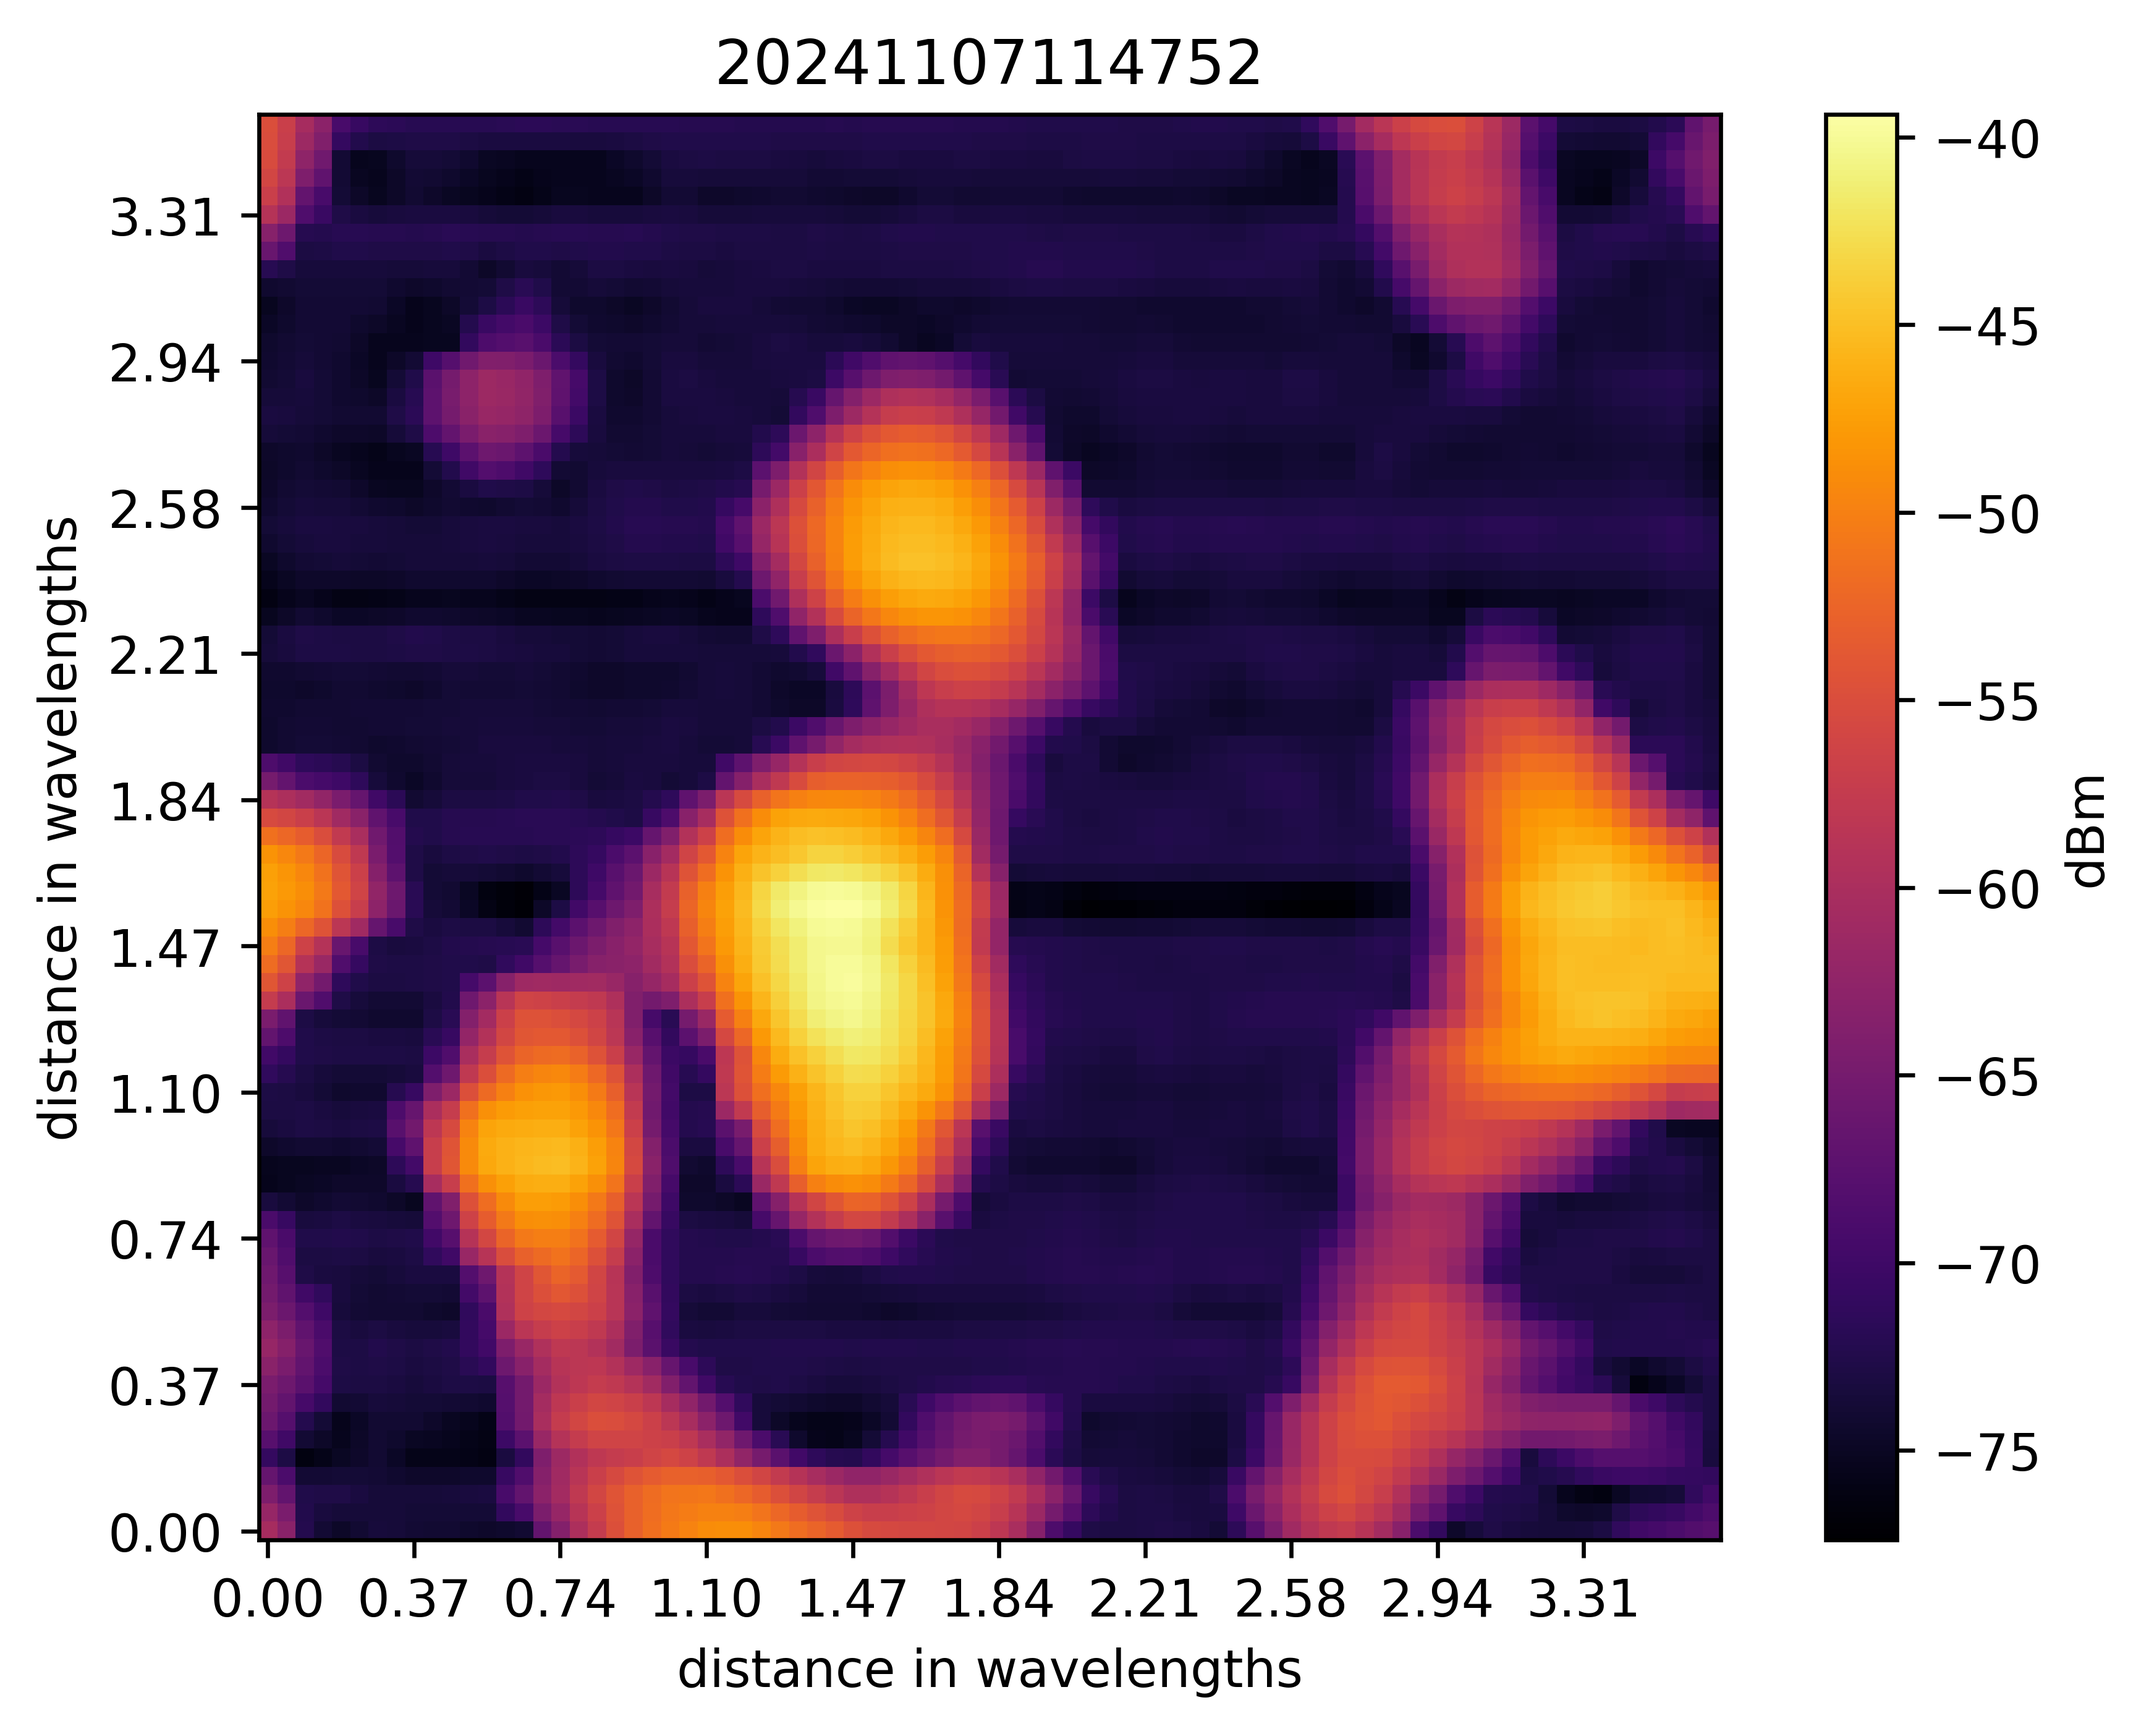
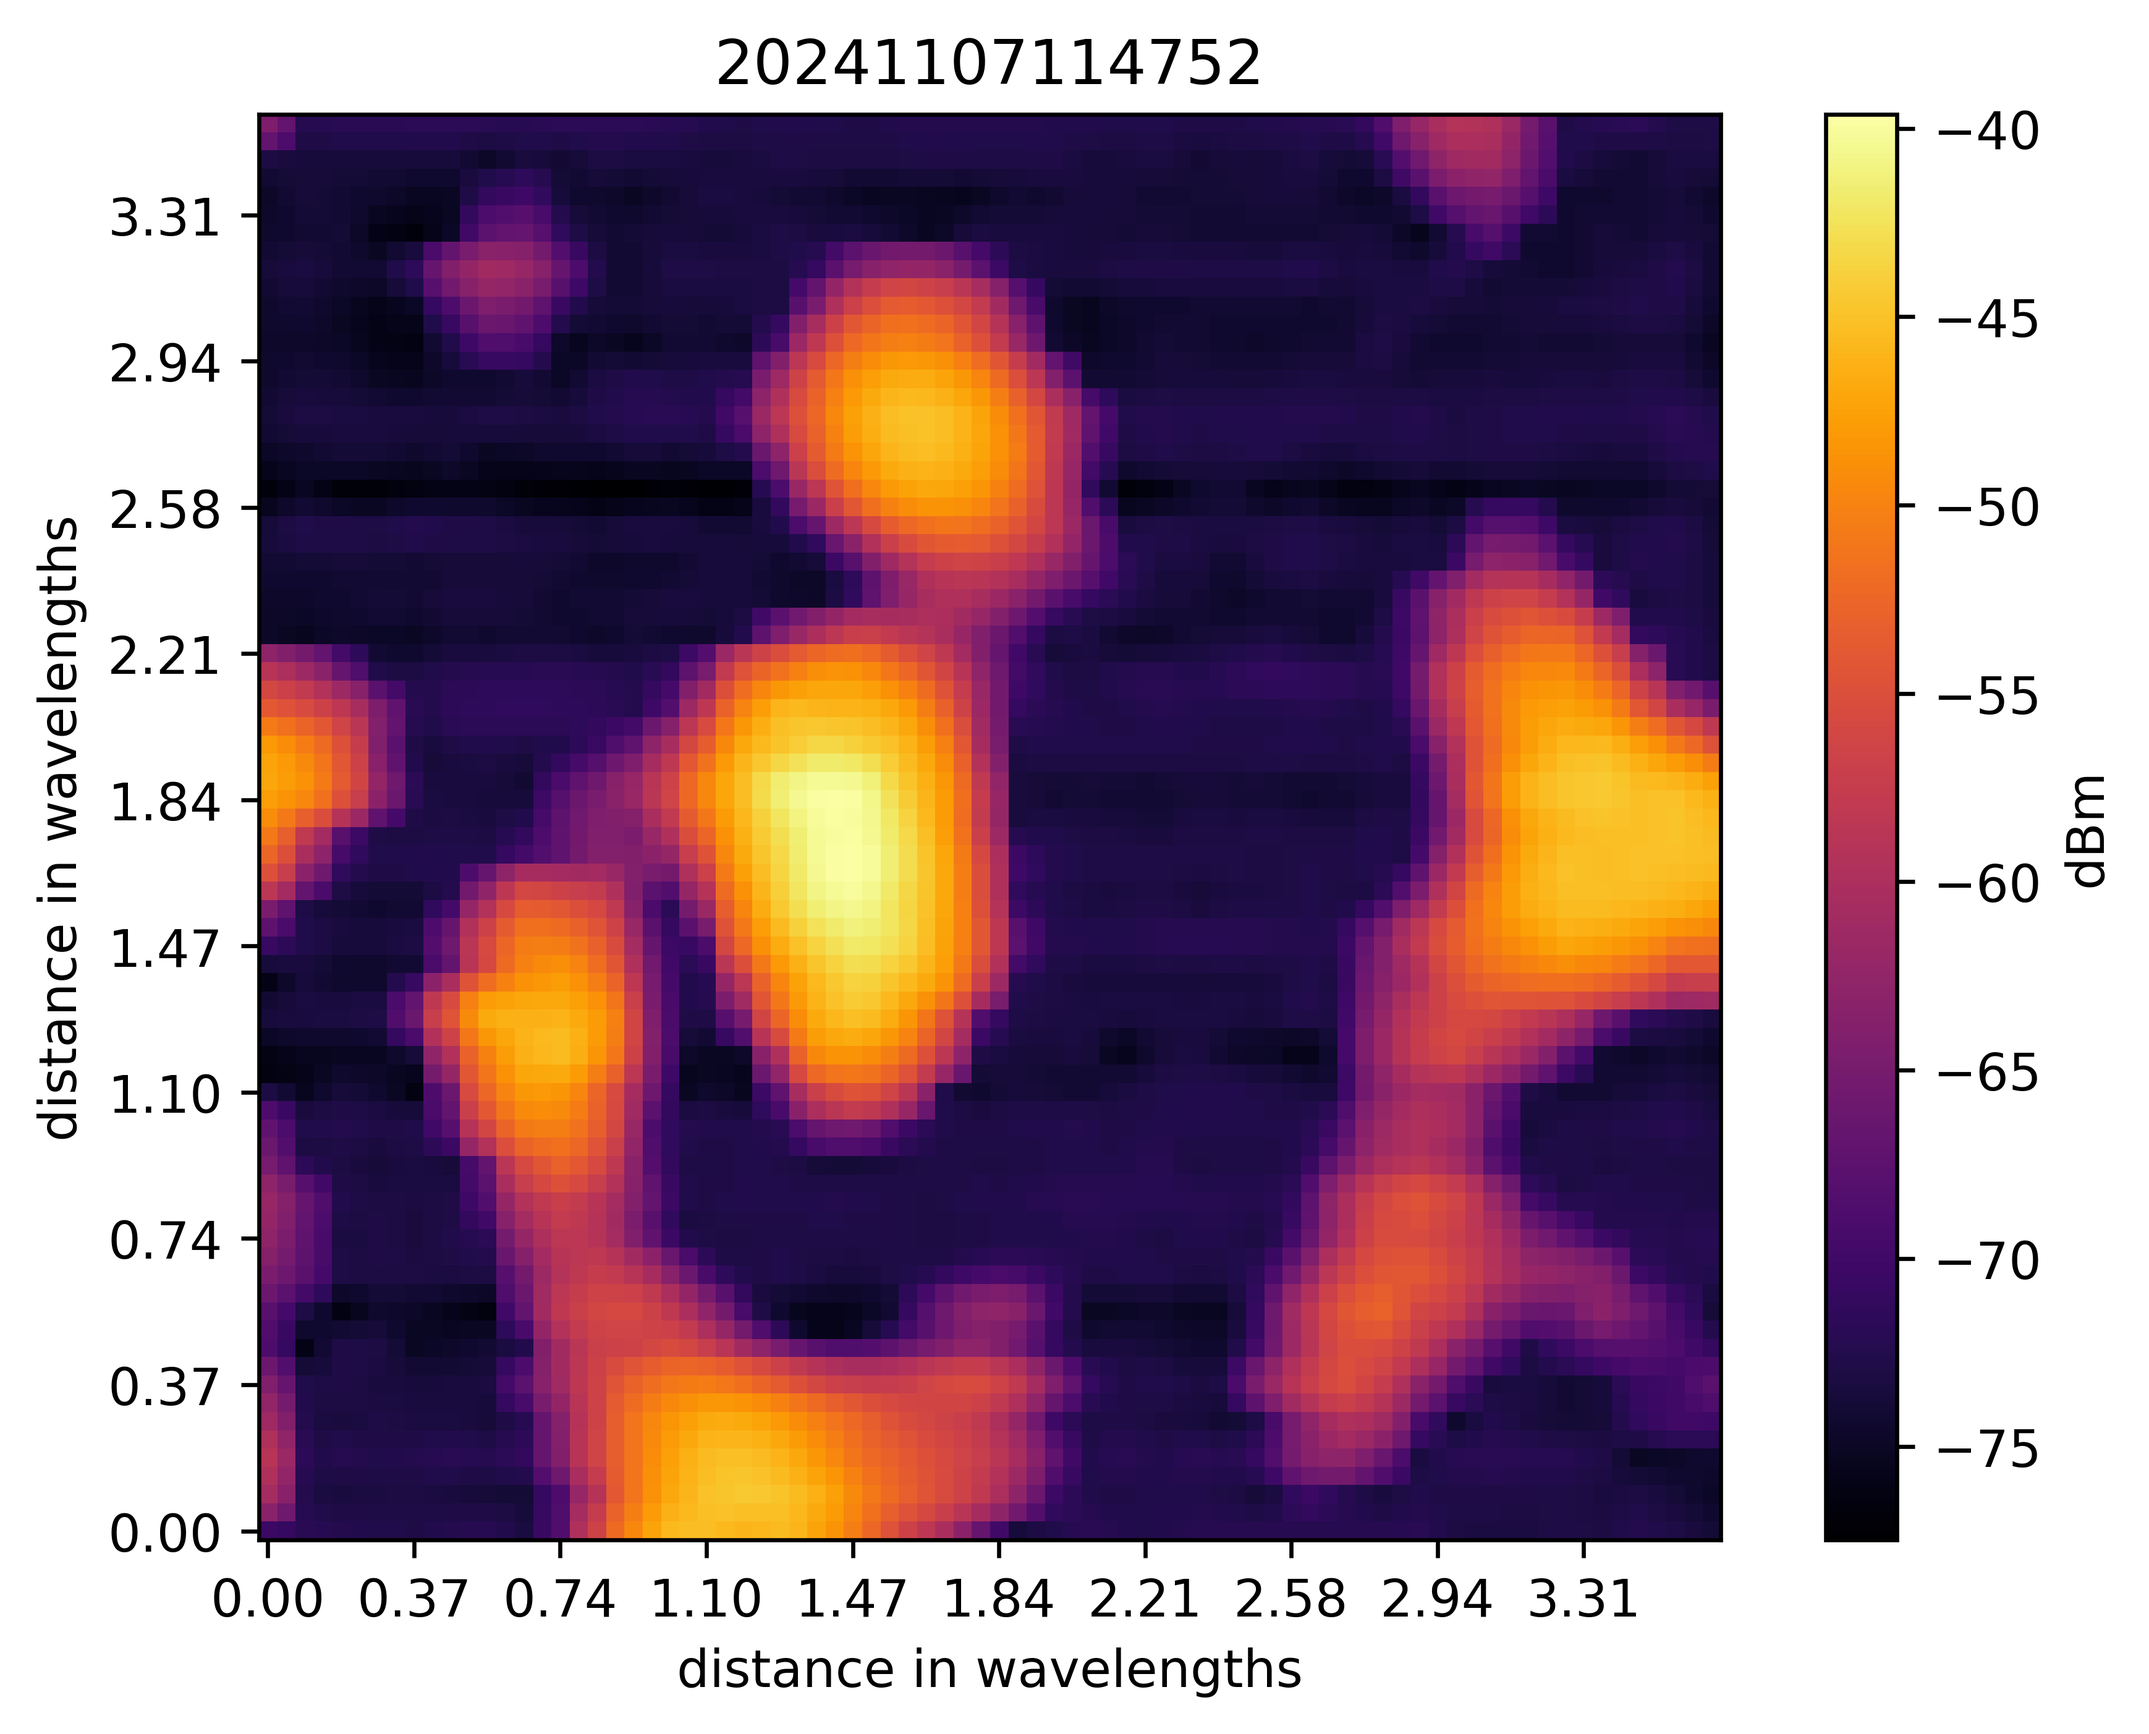
fig update

diff --git a/03_geometry_based_beamforming/031_Friis/processing/plot_2d_ep.py b/03_geometry_based_beamforming/031_Friis/processing/plot_2d_ep.py
@@ -7,7 +7,7 @@ from scipy.ndimage import zoom
 
 from ep import RFEP
 
-to_plot = ["20241107114752"]  # 20241107124328 20241107091548
+to_plot = ["20241107114752", "20241107124328","20241107091548"]  # 20241107124328 20241107091548
 
 cmap = "inferno"
 
@@ -27,7 +27,14 @@ for i, tp in enumerate(to_plot):
     # positions = positions[valid_values_idx]
     # values = values[valid_values_idx]
 
-    positions_list = PositionerValues(positions)
+    print("CHANGE OF X POSITION DUE TO QTM position not same as antenna position")
+    y_positions = [p.y+0.1 for p in positions]
+
+    temp_pos_list = PositionerValues(positions)
+
+    positions_list = PositionerValues.from_xyz(
+        temp_pos_list.get_x_positions(), y_positions, temp_pos_list.get_z_positions()
+    )
 
     values = [v.pwr_nw / 10**6 for v in o_values]
 
